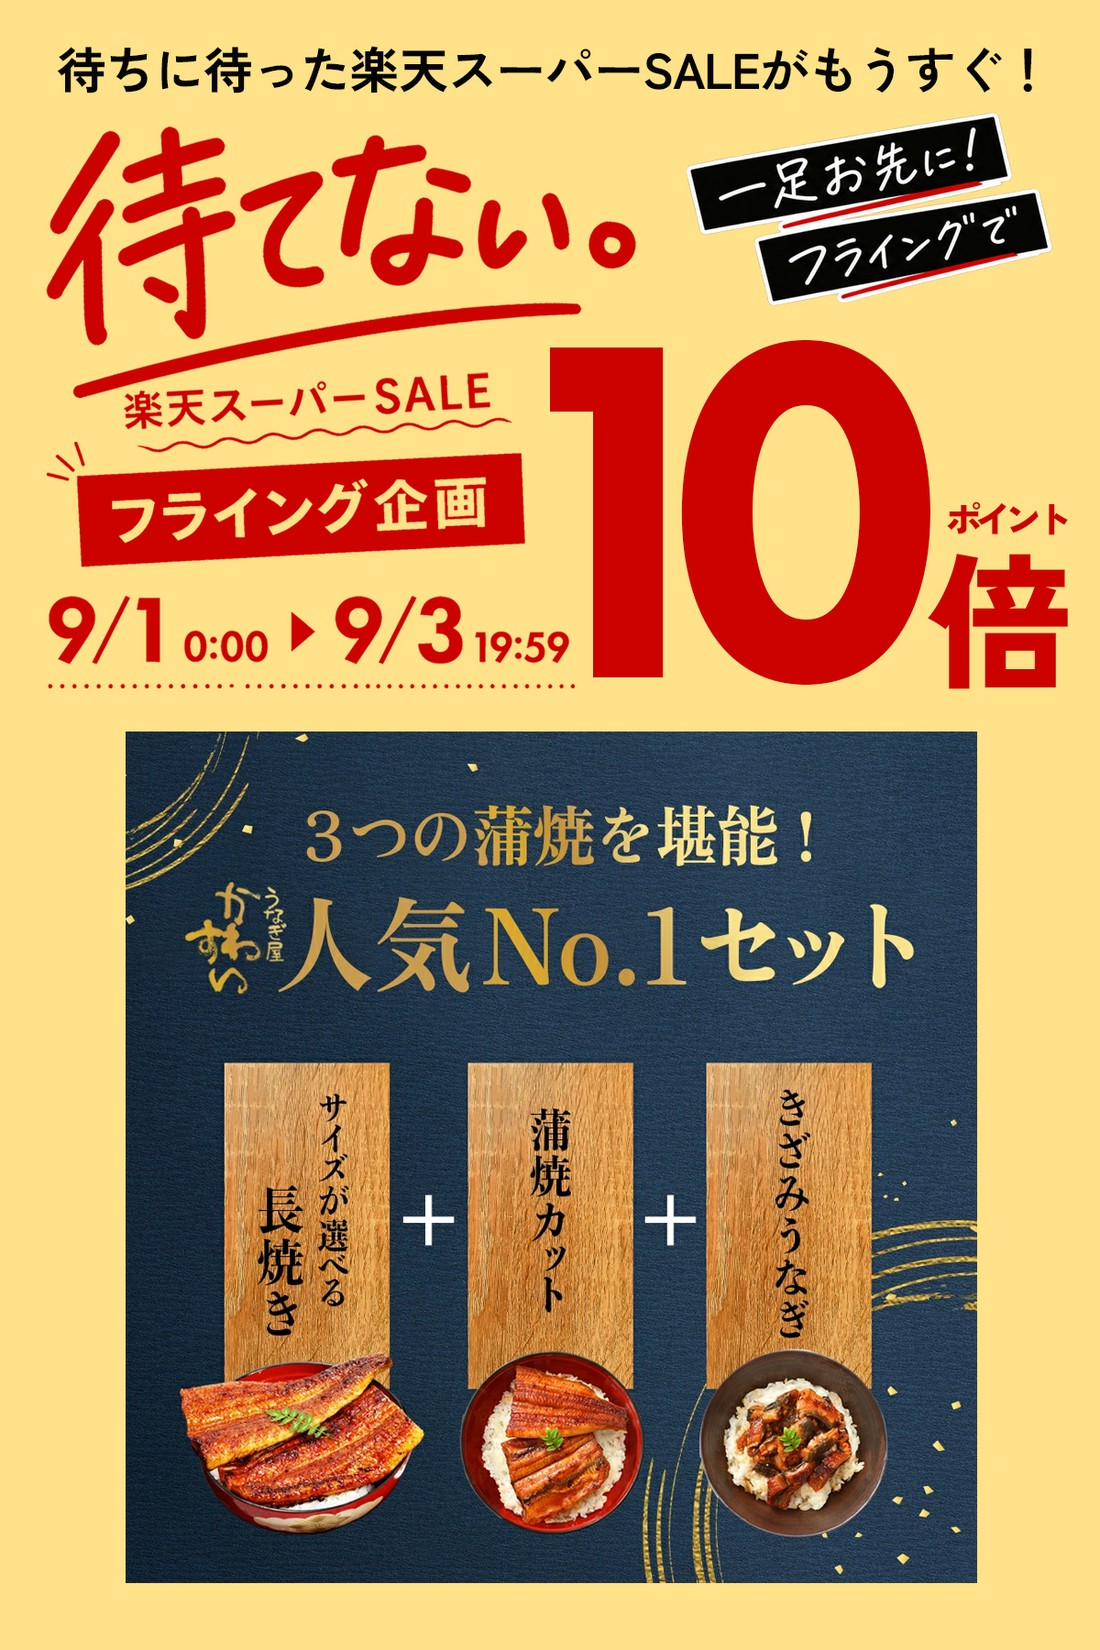
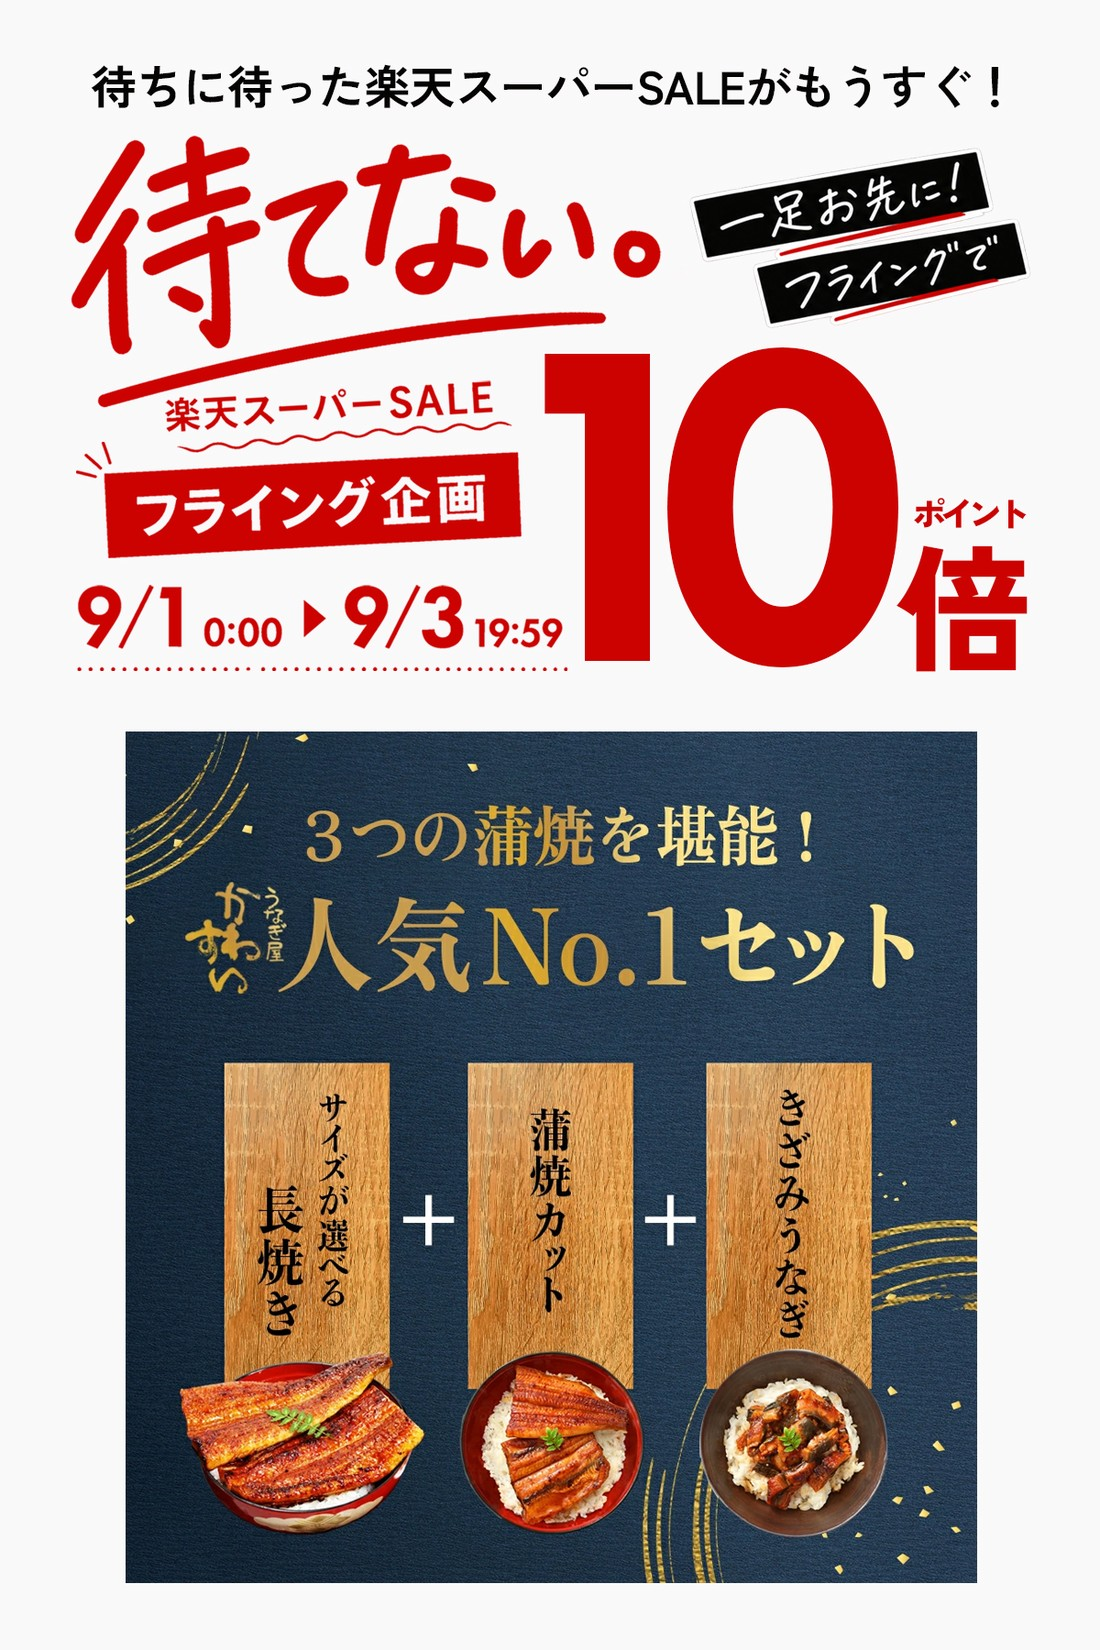
feat: プレセールバナー画像を新しいバージョンに差し替え
- 背景色が薄いグレー(#f9f9f9)の新バナーに変更し、セクション背景色もそれに合わせて調整

diff --git a/index.html b/index.html
@@ -43,7 +43,7 @@
 
   /* ---------------- Presale banner (top of page) ---------------- */
   .presale-hero{
-    background:#fff;
+    background:#f9f9f9;
     text-align:center;
   }
   .presale-hero img{ width:100%; height:auto; }
